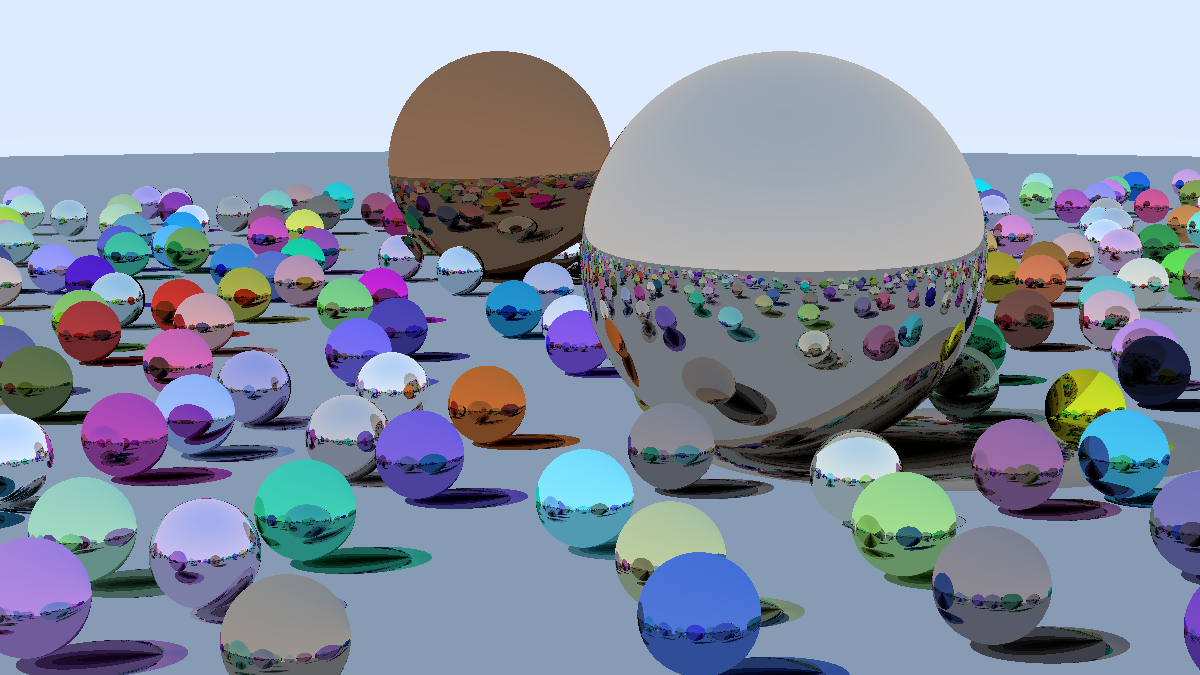
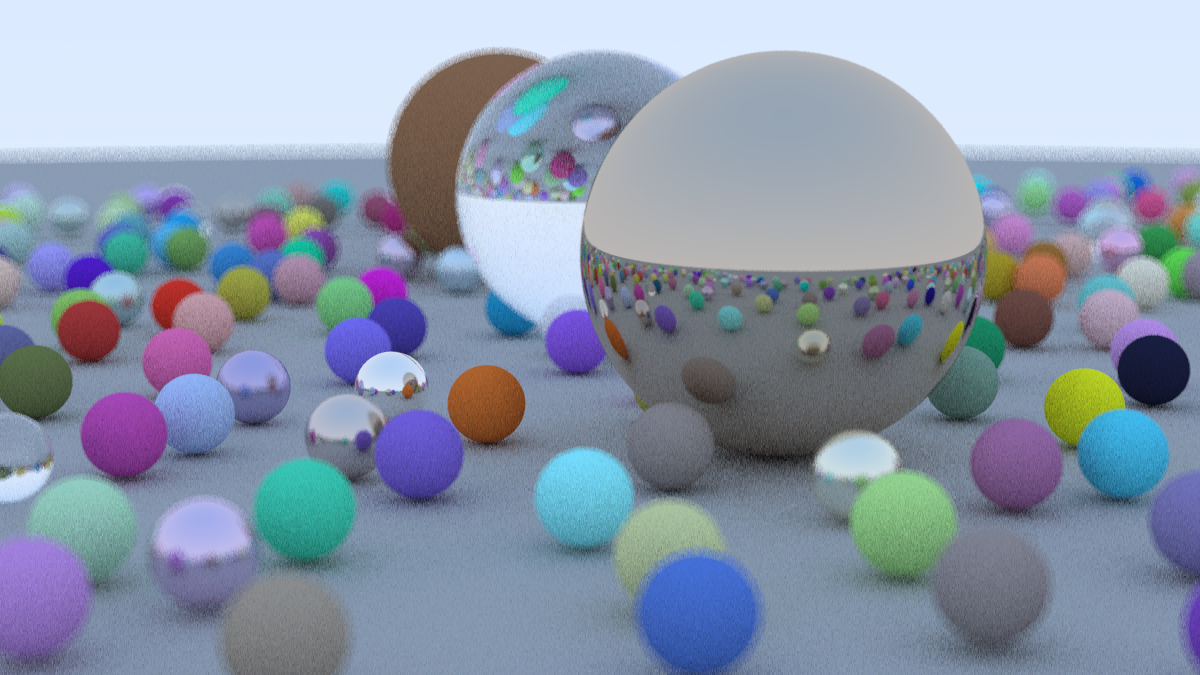
Fixed random number generator (device) bug and updated README.md

diff --git a/include/cuda-raytracer/random_num_gen.hpp b/include/cuda-raytracer/random_num_gen.hpp
@@ -16,8 +16,13 @@ __host__ __device__ static inline float get_random_float_in_range_0_1()
 
     return distribution(generator);
 #else
-    // note(rtarun9) : TODO : Explore random number gen (device side) using curand.
-    return 0;
+
+    // Reference :
+    // https://stackoverflow.com/questions/22425283/how-could-we-generate-random-numbers-in-cuda-c-with-different-seed-on-each-run
+    int i = threadIdx.x + blockIdx.x * blockDim.x;
+    curandState state;
+    curand_init(clock64(), i, 0, &state);
+    return curand_uniform(&state);
 #endif
 }
 

diff --git a/README.md b/README.md
@@ -1,1 +1,5 @@
 # cuda-raytracer
+
+![](./output_image.png)
+
+This image took to render on a Nvidia GTX 1650.
